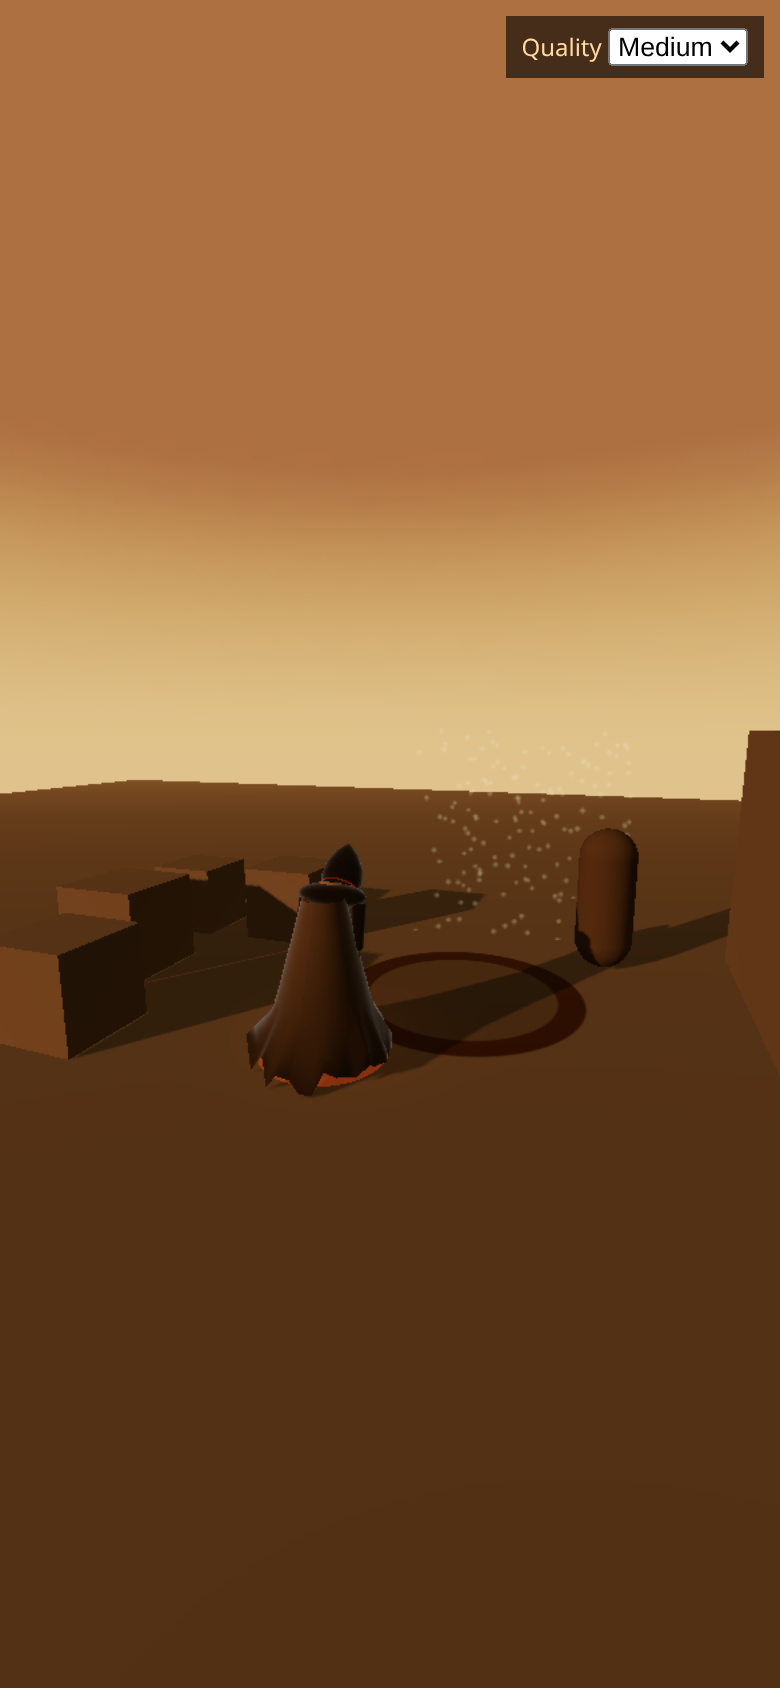
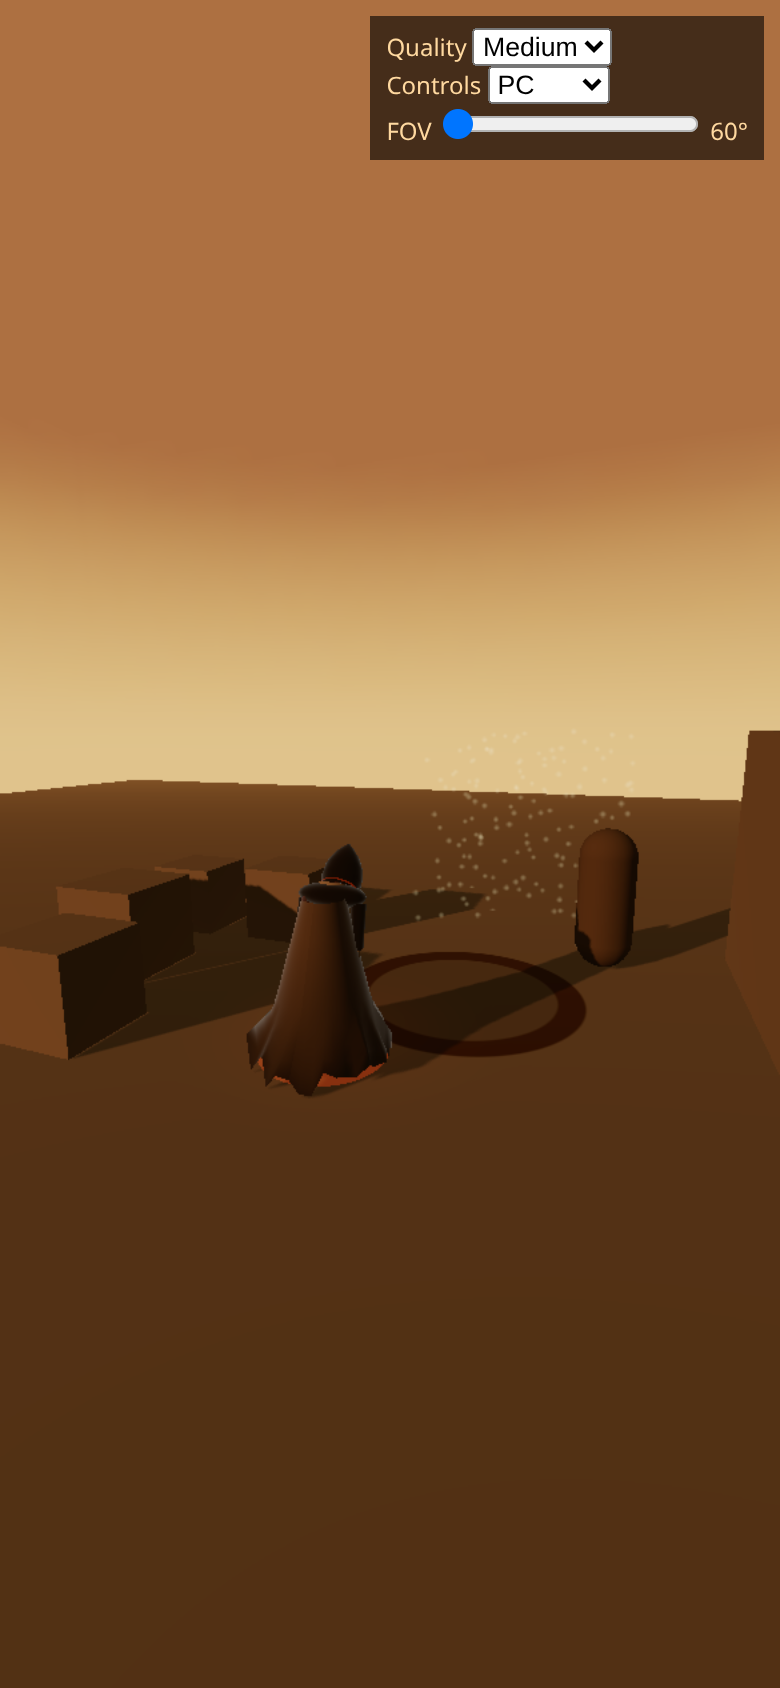
controls: PC/Phone/Tablet control mode (touchscreen + mouse defaults to PC); touch UI only in Phone/Tablet, move stick only for pointerType 'touch' (+test); ?controls= override; screenshots refreshed

Changed region(s): [[0.4615, 0.0, 0.9846, 0.0924], [0.5846, 0.4929, 0.6154, 0.5237]]

diff --git a/src/ui/touch.js b/src/ui/touch.js
@@ -3,6 +3,7 @@
 // yaw reaches the sim only as the recorded, quantized yawQ. Nothing here touches the sim.
 import { TOUCH } from '../config/feel.js';
 import { quantizeAxis } from '../core/touchstick.js';
+import { usesTouchUI, stickAccepts } from './controlmode.js';
 
 const D = Math.PI / 180;
 export const isTouchDevice = () => (globalThis.matchMedia?.('(pointer: coarse)').matches || (navigator.maxTouchPoints || 0) > 0);
@@ -18,8 +19,8 @@ export function buttonLayout(B = TOUCH.buttons) {
   return { dodge, light, heavy, fire, lock };
 }
 
-export function createTouchControls({ input, camera: tps, root = document.body }) {
-  if (!isTouchDevice()) return null;
+// mode: control mode ('pc' | 'phone' | 'tablet'); the overlay is hidden (and inert) in PC mode.
+export function createTouchControls({ input, camera: tps, root = document.body, mode = 'pc' }) {
   const S = TOUCH.stick, L = TOUCH.look;
   const css = document.createElement('style');
   css.textContent = `#touch{position:fixed;inset:0;z-index:15;touch-action:none;user-select:none;-webkit-user-select:none}
@@ -27,9 +28,12 @@ export function createTouchControls({ input, camera: tps, root = document.body }
 #touch .btn.on{background:#ff8a3a55}
 #touch .stick{position:absolute;border-radius:50%;border:2px solid #ffd9a055;pointer-events:none;display:none;transform:translate(-50%,-50%)}
 #touch .knob{position:absolute;width:56px;height:56px;border-radius:50%;background:#ffd9a066;pointer-events:none;display:none;transform:translate(-50%,-50%)}
-#hint{display:none}`;
+#touch.off{display:none}
+#touch.on~#hint,body.touchui #hint{display:none}`;
   document.head.appendChild(css);
   const el = document.createElement('div'); el.id = 'touch'; root.appendChild(el);
+  let curMode = mode;
+  const applyMode = () => { const on = usesTouchUI(curMode); el.classList.toggle('off', !on); document.body.classList.toggle('touchui', on); if (!on) { input.setTouchStick(0, 0, false); input.setTouchSprint(false); } };
   const ring = Object.assign(document.createElement('div'), { className: 'stick' });
   ring.style.width = ring.style.height = `${S.radiusPx * 2}px`;
   const knob = Object.assign(document.createElement('div'), { className: 'knob' });
@@ -48,6 +52,7 @@ export function createTouchControls({ input, camera: tps, root = document.body }
   const now = () => performance.now() / 1000;
 
   el.addEventListener('pointerdown', (e) => {
+    if (!usesTouchUI(curMode)) return;
     e.preventDefault(); el.setPointerCapture?.(e.pointerId);
     const k = e.target.dataset?.k;
     if (k) { // button
@@ -56,7 +61,8 @@ export function createTouchControls({ input, camera: tps, root = document.body }
       if (k === 'dodge') st.timer = setTimeout(() => { st.sprint = true; input.setTouchSprint(true); }, TOUCH.dodgeHoldSprintSec * 1000);
       ptr.set(e.pointerId, st); return;
     }
-    if (e.clientX < innerWidth * S.areaFrac) { // floating move stick
+    if (e.clientX < innerWidth * S.areaFrac) { // floating move stick: real touch contacts only
+      if (!stickAccepts(curMode, e.pointerType)) return;
       ptr.set(e.pointerId, { role: 'stick', ox: e.clientX, oy: e.clientY });
       Object.assign(ring.style, { left: `${e.clientX}px`, top: `${e.clientY}px`, display: 'block' });
       Object.assign(knob.style, { left: `${e.clientX}px`, top: `${e.clientY}px`, display: 'block' });
@@ -94,8 +100,11 @@ export function createTouchControls({ input, camera: tps, root = document.body }
   };
   el.addEventListener('pointerup', end); el.addEventListener('pointercancel', end);
 
+  applyMode();
   return {
     el,
+    setMode(m) { curMode = m; applyMode(); },
+    get mode() { return curMode; },
     // Per render frame: apply the smoothed look delta (0.05 s exponential, no accel).
     update(dt) {
       const k = 1 - Math.exp(-dt / L.smoothingSec);

diff --git a/src/main.js b/src/main.js
@@ -11,6 +11,7 @@ import { createInput } from './core/input.js';
 import { createQuality, createLimiter } from './render/quality.js';
 import { createPerf } from './debug/perf.js';
 import { createTouchControls } from './ui/touch.js';
+import { detectControlMode, loadControlMode, saveControlMode } from './ui/controlmode.js';
 import { createGradeTimer } from './debug/gradetimer.js';
 import { createDrawCallProbe } from './debug/drawcalls.js';
 import { createTPSCamera, FOV_MIN, FOV_MAX } from './render/camera.js';
@@ -132,7 +133,12 @@ quality.init();
 addEventListener('resize', resize);
 
 const input = createInput({ getYaw: () => tps.yaw }); input.attach(window);
-const touchUI = createTouchControls({ input, camera: tps }); // null on non-touch devices
+// Control mode (PC / Phone / Tablet): saved choice, else detected (touchscreen + mouse -> PC).
+const ctlEl = document.getElementById('controls');
+const ctlParam = ['pc', 'phone', 'tablet'].includes(params.get('controls')) ? params.get('controls') : null; // ?controls= (screenshots)
+const touchUI = createTouchControls({ input, camera: tps, mode: ctlParam ?? loadControlMode() ?? detectControlMode() });
+ctlEl.value = touchUI.mode;
+ctlEl.addEventListener('change', () => { saveControlMode(ctlEl.value); touchUI.setMode(ctlEl.value); });
 const perf = createPerf();
 const loop = createLoop({ step: (dt, tick) => stepScene(scene, input.sample(tick), dt) });
 const limiter = createLimiter();
@@ -149,7 +155,7 @@ function frame(tMs) {
   const sp = dt > 0 ? Math.hypot(pm.position.x - lastPos.x, pm.position.z - lastPos.z) / dt : 0;
   lastPos.copy(pm.position);
   standin.update(dt, { speed: sp, dodging: scene.player.state.dodgeLeft > 0 });
-  touchUI?.update(dt);
+  touchUI.update(dt);
   tps.update(dt, pm.position); // render-side only; sim sees yaw via recorded input.yawQ
   clock += dt;
   zones.update(pm.position); lighting.update(dt);

diff --git a/src/ui/controlmode.js b/src/ui/controlmode.js
@@ -1,0 +1,22 @@
+// Control mode: 'pc' | 'phone' | 'tablet'. The touch UI (and its move stick) only runs in
+// Phone/Tablet mode. Default: any fine pointer (mouse / trackpad) present -> PC, even on a
+// touchscreen laptop; touch-only devices -> Phone (shorter side < 600 CSS px) or Tablet.
+export const CONTROL_MODES = ['pc', 'phone', 'tablet'];
+const KEY = 'voidEquinox.controls';
+
+export function defaultControlMode({ anyFine, touch, minSidePx }) {
+  if (anyFine || !touch) return 'pc';
+  return minSidePx < 600 ? 'phone' : 'tablet';
+}
+export function detectControlMode(w = globalThis) {
+  const mm = (q) => !!w.matchMedia?.(q).matches;
+  return defaultControlMode({ anyFine: mm('(any-pointer: fine)'), touch: mm('(any-pointer: coarse)') || (w.navigator?.maxTouchPoints || 0) > 0, minSidePx: Math.min(w.innerWidth || 0, w.innerHeight || 0) });
+}
+export function loadControlMode(storage = globalThis.localStorage) {
+  let v = null; try { v = storage?.getItem(KEY); } catch { /* ignore */ }
+  return CONTROL_MODES.includes(v) ? v : null;
+}
+export function saveControlMode(v, storage = globalThis.localStorage) { try { storage?.setItem(KEY, v); } catch { /* ignore */ } }
+export const usesTouchUI = (mode) => mode === 'phone' || mode === 'tablet';
+// The move stick accepts only real touch contacts, and only in Phone/Tablet mode.
+export const stickAccepts = (mode, pointerType) => usesTouchUI(mode) && pointerType === 'touch';

diff --git a/index.html b/index.html
@@ -4,7 +4,7 @@
 <body>
   <div id="app"></div>
   <div id="loading" style="position:fixed;inset:0;display:flex;align-items:center;justify-content:center;background:#140d0a;color:#ffd9a0;font:14px/1.4 monospace;z-index:20">Loading physics…</div>
-  <div id="settings">Quality <select id="quality"><option value="auto">Auto</option><option value="low">Low</option><option value="medium">Medium</option><option value="high">High</option></select><br><label>FOV <input id="fov" type="range" min="60" max="80" step="1" value="60"> <span id="fovVal">60</span>°</label></div>
+  <div id="settings">Quality <select id="quality"><option value="auto">Auto</option><option value="low">Low</option><option value="medium">Medium</option><option value="high">High</option></select><br><label>Controls <select id="controls"><option value="pc">PC</option><option value="phone">Phone</option><option value="tablet">Tablet</option></select></label><br><label>FOV <input id="fov" type="range" min="60" max="80" step="1" value="60"> <span id="fovVal">60</span>°</label></div>
   <div id="hint">WASD move (camera-relative) · Space dodge · click: mouse look · arrows / right stick orbit · Tab / middle mouse / R3 lock-on · ` perf · 1/2/3 act, 4 arena, 5 boss · P presence · T/Y/U tell (normal/unblockable/silence)</div>
   <script type="module" src="/src/main.js"></script>
 </body>

diff --git a/tests/controlmode.test.js b/tests/controlmode.test.js
@@ -1,0 +1,15 @@
+import { test } from 'node:test';
+import assert from 'node:assert/strict';
+import { defaultControlMode, stickAccepts, usesTouchUI } from '../src/ui/controlmode.js';
+
+test('control mode: touchscreen + mouse defaults to PC; stick only for touch pointers in Phone/Tablet', () => {
+  assert.equal(defaultControlMode({ anyFine: true, touch: true, minSidePx: 800 }), 'pc');
+  assert.equal(defaultControlMode({ anyFine: true, touch: false, minSidePx: 800 }), 'pc');
+  assert.equal(defaultControlMode({ anyFine: false, touch: true, minSidePx: 390 }), 'phone');
+  assert.equal(defaultControlMode({ anyFine: false, touch: true, minSidePx: 820 }), 'tablet');
+  for (const m of ['phone', 'tablet']) {
+    assert.ok(usesTouchUI(m)); assert.ok(stickAccepts(m, 'touch'));
+    assert.ok(!stickAccepts(m, 'mouse')); assert.ok(!stickAccepts(m, 'pen'));
+  }
+  assert.ok(!usesTouchUI('pc')); assert.ok(!stickAccepts('pc', 'touch'));
+});
